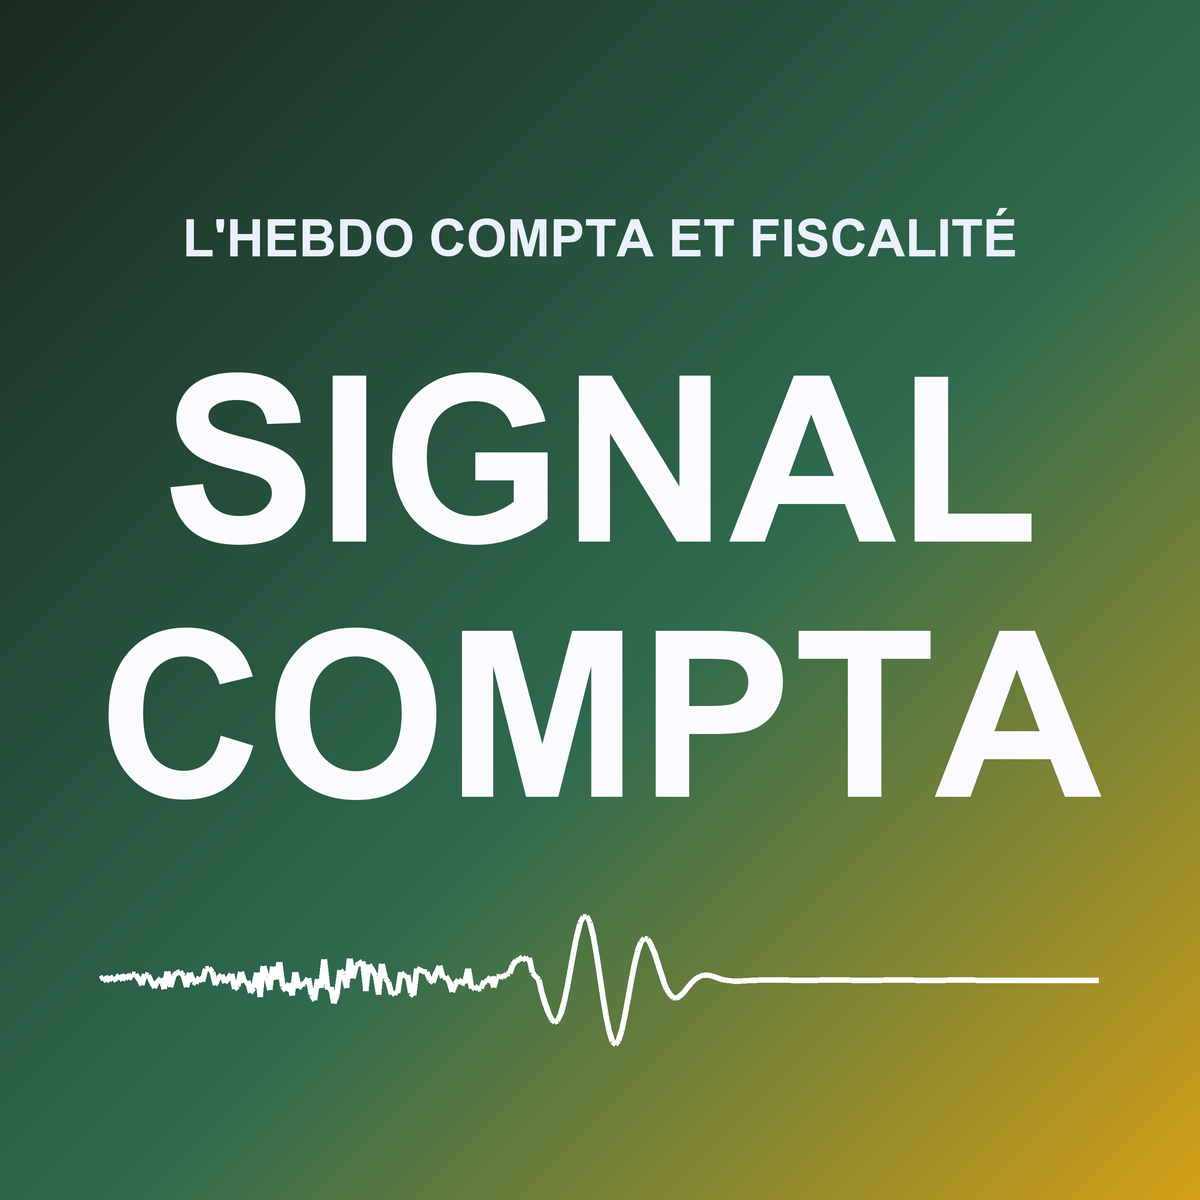
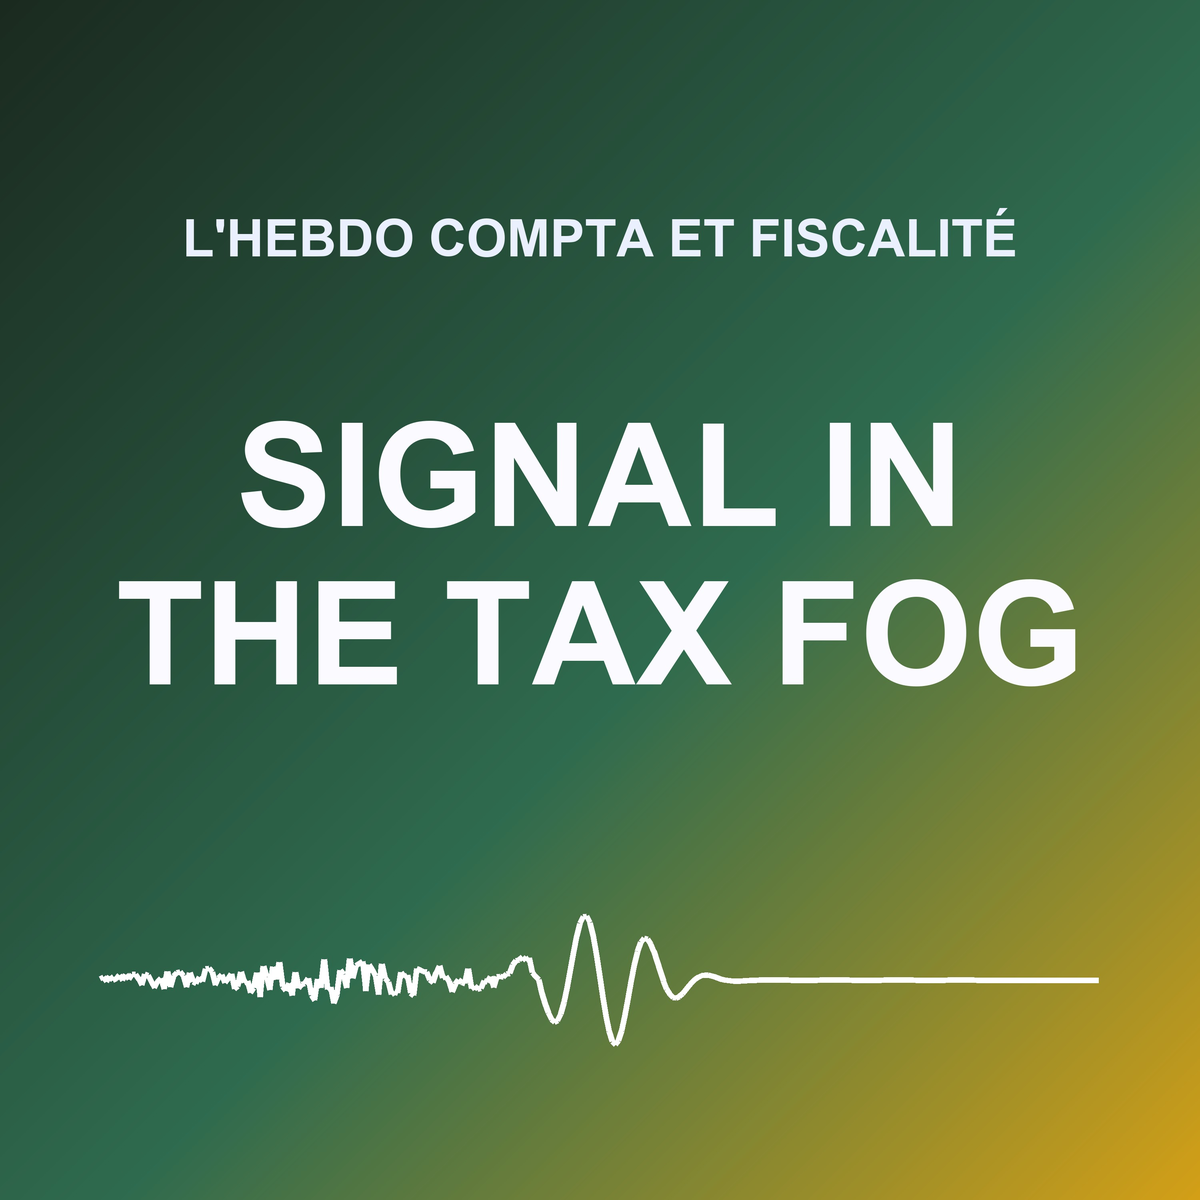
Name the French shows Signal in the HR Fog and Signal in the Tax Fog
Same family as the first show. New covers, site rebuilt; slugs, site folders
and release prefixes unchanged.

Changed region(s): [[0.093, 0.31, 0.93, 0.682]]

diff --git a/docs/index.html b/docs/index.html
@@ -17,7 +17,7 @@
 </div></header>
 <main class="wrap">
 <h1 data-i18n="shows_heading">Pick a show</h1><p class="lede" data-i18n="shows_lede">Every show made by this podcast engine: written by AI from the week&#x27;s or the day&#x27;s sources, read by AI voices.</p>
-<div class="show-list"><section class="story show-card"><a href="episodes.html"><img src="cover.jpg" alt="" width="96" height="96"></a><div><h2><a href="episodes.html">Signal in the AI Fog</a></h2><div class="meta"><span data-i18n="cadence_day">Every weekday</span> · <span data-i18n="language_en">In English</span></div><p class="facts">Every weekday morning, six minutes on enterprise AI in production: models and vendors, European sovereignty, LLMOps and MLOps platforms, evaluation, regulation and retail. Script written and voice generated by AI.</p><p class="latest"><span data-i18n="latest_episode">Latest episode:</span> <a href="episodes/2026-10-22.html">Walmart&#x27;s Agent Gateway, Mistral&#x27;s Compute</a> · <span data-date="2026-10-22" data-date-style="long">Thursday 22 October 2026</span></p><a class="open" href="episodes.html" data-i18n="open_show">Open the catalog →</a></div></section><section class="story show-card"><a href="accounting-news-fr/index.html"><img src="accounting-news-fr/cover.jpg" alt="" width="96" height="96"></a><div><h2><a href="accounting-news-fr/index.html">Signal Compta</a></h2><div class="meta"><span data-i18n="cadence_week">Every week</span> · <span data-i18n="language_fr">In French</span></div><p class="facts">Chaque semaine, dix minutes sur l&#x27;actualité comptable, fiscale et de l&#x27;audit : loi de finances et doctrine fiscale, normes comptables, facturation électronique, reporting de durabilité, commissariat aux comptes, et ce qui vient de l&#x27;Europe. Pour les experts-comptables, les directions financières et les commissaires aux comptes. Script écrit et voix générée par IA.</p><p class="latest"><span data-i18n="no_episodes">No episodes yet</span></p><a class="open" href="accounting-news-fr/index.html" data-i18n="open_show">Open the catalog →</a></div></section><section class="story show-card"><a href="hr-news-fr/index.html"><img src="hr-news-fr/cover.jpg" alt="" width="96" height="96"></a><div><h2><a href="hr-news-fr/index.html">Signal RH</a></h2><div class="meta"><span data-i18n="cadence_week">Every week</span> · <span data-i18n="language_fr">In French</span></div><p class="facts">Chaque semaine, dix minutes sur l&#x27;actualité RH, sociale et paie : droit du travail et jurisprudence, cotisations, conventions collectives, formation, outils RH et IA, et ce qui vient de l&#x27;Europe. Pour les responsables RH et les gestionnaires de paie. Script écrit et voix générée par IA.</p><p class="latest"><span data-i18n="no_episodes">No episodes yet</span></p><a class="open" href="hr-news-fr/index.html" data-i18n="open_show">Open the catalog →</a></div></section></div>
+<div class="show-list"><section class="story show-card"><a href="episodes.html"><img src="cover.jpg" alt="" width="96" height="96"></a><div><h2><a href="episodes.html">Signal in the AI Fog</a></h2><div class="meta"><span data-i18n="cadence_day">Every weekday</span> · <span data-i18n="language_en">In English</span></div><p class="facts">Every weekday morning, six minutes on enterprise AI in production: models and vendors, European sovereignty, LLMOps and MLOps platforms, evaluation, regulation and retail. Script written and voice generated by AI.</p><p class="latest"><span data-i18n="latest_episode">Latest episode:</span> <a href="episodes/2026-10-22.html">Walmart&#x27;s Agent Gateway, Mistral&#x27;s Compute</a> · <span data-date="2026-10-22" data-date-style="long">Thursday 22 October 2026</span></p><a class="open" href="episodes.html" data-i18n="open_show">Open the catalog →</a></div></section><section class="story show-card"><a href="accounting-news-fr/index.html"><img src="accounting-news-fr/cover.jpg" alt="" width="96" height="96"></a><div><h2><a href="accounting-news-fr/index.html">Signal in the Tax Fog</a></h2><div class="meta"><span data-i18n="cadence_week">Every week</span> · <span data-i18n="language_fr">In French</span></div><p class="facts">Chaque semaine, dix minutes sur l&#x27;actualité comptable, fiscale et de l&#x27;audit : loi de finances et doctrine fiscale, normes comptables, facturation électronique, reporting de durabilité, commissariat aux comptes, et ce qui vient de l&#x27;Europe. Pour les experts-comptables, les directions financières et les commissaires aux comptes. Script écrit et voix générée par IA.</p><p class="latest"><span data-i18n="no_episodes">No episodes yet</span></p><a class="open" href="accounting-news-fr/index.html" data-i18n="open_show">Open the catalog →</a></div></section><section class="story show-card"><a href="hr-news-fr/index.html"><img src="hr-news-fr/cover.jpg" alt="" width="96" height="96"></a><div><h2><a href="hr-news-fr/index.html">Signal in the HR Fog</a></h2><div class="meta"><span data-i18n="cadence_week">Every week</span> · <span data-i18n="language_fr">In French</span></div><p class="facts">Chaque semaine, dix minutes sur l&#x27;actualité RH, sociale et paie : droit du travail et jurisprudence, cotisations, conventions collectives, formation, outils RH et IA, et ce qui vient de l&#x27;Europe. Pour les responsables RH et les gestionnaires de paie. Script écrit et voix générée par IA.</p><p class="latest"><span data-i18n="no_episodes">No episodes yet</span></p><a class="open" href="hr-news-fr/index.html" data-i18n="open_show">Open the catalog →</a></div></section></div>
 </main>
 <footer><div class="wrap"><span data-i18n="footer">Scripts are written and voices generated by AI. Sources are listed with every story.</span></div></footer>
 </body>

diff --git a/docs/accounting-news-fr/corrections.html b/docs/accounting-news-fr/corrections.html
@@ -4,11 +4,11 @@
 <head>
 <meta charset="utf-8">
 <meta name="viewport" content="width=device-width, initial-scale=1">
-<title>Rectificatifs · Signal Compta</title>
-<meta name="description" content="Rectificatifs: Signal Compta">
+<title>Rectificatifs · Signal in the Tax Fog</title>
+<meta name="description" content="Rectificatifs: Signal in the Tax Fog">
 <link rel="canonical" href="https://gwendalyviquel.github.io/signal-in-the-ai-fog/accounting-news-fr/corrections.html">
-<meta property="og:title" content="Rectificatifs · Signal Compta">
-<meta property="og:description" content="Rectificatifs: Signal Compta">
+<meta property="og:title" content="Rectificatifs · Signal in the Tax Fog">
+<meta property="og:description" content="Rectificatifs: Signal in the Tax Fog">
 <meta property="og:url" content="https://gwendalyviquel.github.io/signal-in-the-ai-fog/accounting-news-fr/corrections.html">
 <meta property="og:image" content="https://gwendalyviquel.github.io/signal-in-the-ai-fog/accounting-news-fr/cover.jpg">
 <meta name="twitter:card" content="summary">
@@ -21,7 +21,7 @@
 <header class="bar"><div class="wrap">
   <a class="home" href="../index.html" data-i18n-title="nav_home_title" title="Revenir à toutes les émissions">← <span data-i18n="nav_home">Accueil</span></a>
   <img src="cover.jpg" alt="">
-  <a href="index.html">Signal Compta</a>
+  <a href="index.html">Signal in the Tax Fog</a>
   <nav><a href="index.html" data-i18n="nav_episodes">Épisodes</a><a href="agenda.html" data-i18n="nav_agenda">Agenda</a><a href="topics/index.html" data-i18n="nav_topics">Thèmes</a></nav>
   <div class="lang-switch" role="group" aria-label="Language"><button type="button" data-lang="en" aria-pressed="false">EN</button><button type="button" data-lang="fr" aria-pressed="true">FR</button></div>
 </div></header>

diff --git a/docs/accounting-news-fr/topics/index.html b/docs/accounting-news-fr/topics/index.html
@@ -4,11 +4,11 @@
 <head>
 <meta charset="utf-8">
 <meta name="viewport" content="width=device-width, initial-scale=1">
-<title>Thèmes · Signal Compta</title>
-<meta name="description" content="Thèmes: Signal Compta">
+<title>Thèmes · Signal in the Tax Fog</title>
+<meta name="description" content="Thèmes: Signal in the Tax Fog">
 <link rel="canonical" href="https://gwendalyviquel.github.io/signal-in-the-ai-fog/accounting-news-fr/topics/index.html">
-<meta property="og:title" content="Thèmes · Signal Compta">
-<meta property="og:description" content="Thèmes: Signal Compta">
+<meta property="og:title" content="Thèmes · Signal in the Tax Fog">
+<meta property="og:description" content="Thèmes: Signal in the Tax Fog">
 <meta property="og:url" content="https://gwendalyviquel.github.io/signal-in-the-ai-fog/accounting-news-fr/topics/index.html">
 <meta property="og:image" content="https://gwendalyviquel.github.io/signal-in-the-ai-fog/accounting-news-fr/cover.jpg">
 <meta name="twitter:card" content="summary">
@@ -21,7 +21,7 @@
 <header class="bar"><div class="wrap">
   <a class="home" href="../../index.html" data-i18n-title="nav_home_title" title="Revenir à toutes les émissions">← <span data-i18n="nav_home">Accueil</span></a>
   <img src="../cover.jpg" alt="">
-  <a href="../index.html">Signal Compta</a>
+  <a href="../index.html">Signal in the Tax Fog</a>
   <nav><a href="../index.html" data-i18n="nav_episodes">Épisodes</a><a href="../agenda.html" data-i18n="nav_agenda">Agenda</a><a href="../topics/index.html" data-i18n="nav_topics">Thèmes</a></nav>
   <div class="lang-switch" role="group" aria-label="Language"><button type="button" data-lang="en" aria-pressed="false">EN</button><button type="button" data-lang="fr" aria-pressed="true">FR</button></div>
 </div></header>

diff --git a/docs/hr-news-fr/corrections.html b/docs/hr-news-fr/corrections.html
@@ -4,11 +4,11 @@
 <head>
 <meta charset="utf-8">
 <meta name="viewport" content="width=device-width, initial-scale=1">
-<title>Rectificatifs · Signal RH</title>
-<meta name="description" content="Rectificatifs: Signal RH">
+<title>Rectificatifs · Signal in the HR Fog</title>
+<meta name="description" content="Rectificatifs: Signal in the HR Fog">
 <link rel="canonical" href="https://gwendalyviquel.github.io/signal-in-the-ai-fog/hr-news-fr/corrections.html">
-<meta property="og:title" content="Rectificatifs · Signal RH">
-<meta property="og:description" content="Rectificatifs: Signal RH">
+<meta property="og:title" content="Rectificatifs · Signal in the HR Fog">
+<meta property="og:description" content="Rectificatifs: Signal in the HR Fog">
 <meta property="og:url" content="https://gwendalyviquel.github.io/signal-in-the-ai-fog/hr-news-fr/corrections.html">
 <meta property="og:image" content="https://gwendalyviquel.github.io/signal-in-the-ai-fog/hr-news-fr/cover.jpg">
 <meta name="twitter:card" content="summary">
@@ -21,7 +21,7 @@
 <header class="bar"><div class="wrap">
   <a class="home" href="../index.html" data-i18n-title="nav_home_title" title="Revenir à toutes les émissions">← <span data-i18n="nav_home">Accueil</span></a>
   <img src="cover.jpg" alt="">
-  <a href="index.html">Signal RH</a>
+  <a href="index.html">Signal in the HR Fog</a>
   <nav><a href="index.html" data-i18n="nav_episodes">Épisodes</a><a href="agenda.html" data-i18n="nav_agenda">Agenda</a><a href="topics/index.html" data-i18n="nav_topics">Thèmes</a></nav>
   <div class="lang-switch" role="group" aria-label="Language"><button type="button" data-lang="en" aria-pressed="false">EN</button><button type="button" data-lang="fr" aria-pressed="true">FR</button></div>
 </div></header>

diff --git a/docs/accounting-news-fr/agenda.html b/docs/accounting-news-fr/agenda.html
@@ -4,11 +4,11 @@
 <head>
 <meta charset="utf-8">
 <meta name="viewport" content="width=device-width, initial-scale=1">
-<title>Agenda · Signal Compta</title>
-<meta name="description" content="Agenda: Signal Compta">
+<title>Agenda · Signal in the Tax Fog</title>
+<meta name="description" content="Agenda: Signal in the Tax Fog">
 <link rel="canonical" href="https://gwendalyviquel.github.io/signal-in-the-ai-fog/accounting-news-fr/agenda.html">
-<meta property="og:title" content="Agenda · Signal Compta">
-<meta property="og:description" content="Agenda: Signal Compta">
+<meta property="og:title" content="Agenda · Signal in the Tax Fog">
+<meta property="og:description" content="Agenda: Signal in the Tax Fog">
 <meta property="og:url" content="https://gwendalyviquel.github.io/signal-in-the-ai-fog/accounting-news-fr/agenda.html">
 <meta property="og:image" content="https://gwendalyviquel.github.io/signal-in-the-ai-fog/accounting-news-fr/cover.jpg">
 <meta name="twitter:card" content="summary">
@@ -21,7 +21,7 @@
 <header class="bar"><div class="wrap">
   <a class="home" href="../index.html" data-i18n-title="nav_home_title" title="Revenir à toutes les émissions">← <span data-i18n="nav_home">Accueil</span></a>
   <img src="cover.jpg" alt="">
-  <a href="index.html">Signal Compta</a>
+  <a href="index.html">Signal in the Tax Fog</a>
   <nav><a href="index.html" data-i18n="nav_episodes">Épisodes</a><a href="agenda.html" data-i18n="nav_agenda">Agenda</a><a href="topics/index.html" data-i18n="nav_topics">Thèmes</a></nav>
   <div class="lang-switch" role="group" aria-label="Language"><button type="button" data-lang="en" aria-pressed="false">EN</button><button type="button" data-lang="fr" aria-pressed="true">FR</button></div>
 </div></header>

diff --git a/docs/hr-news-fr/topics/index.html b/docs/hr-news-fr/topics/index.html
@@ -4,11 +4,11 @@
 <head>
 <meta charset="utf-8">
 <meta name="viewport" content="width=device-width, initial-scale=1">
-<title>Thèmes · Signal RH</title>
-<meta name="description" content="Thèmes: Signal RH">
+<title>Thèmes · Signal in the HR Fog</title>
+<meta name="description" content="Thèmes: Signal in the HR Fog">
 <link rel="canonical" href="https://gwendalyviquel.github.io/signal-in-the-ai-fog/hr-news-fr/topics/index.html">
-<meta property="og:title" content="Thèmes · Signal RH">
-<meta property="og:description" content="Thèmes: Signal RH">
+<meta property="og:title" content="Thèmes · Signal in the HR Fog">
+<meta property="og:description" content="Thèmes: Signal in the HR Fog">
 <meta property="og:url" content="https://gwendalyviquel.github.io/signal-in-the-ai-fog/hr-news-fr/topics/index.html">
 <meta property="og:image" content="https://gwendalyviquel.github.io/signal-in-the-ai-fog/hr-news-fr/cover.jpg">
 <meta name="twitter:card" content="summary">
@@ -21,7 +21,7 @@
 <header class="bar"><div class="wrap">
   <a class="home" href="../../index.html" data-i18n-title="nav_home_title" title="Revenir à toutes les émissions">← <span data-i18n="nav_home">Accueil</span></a>
   <img src="../cover.jpg" alt="">
-  <a href="../index.html">Signal RH</a>
+  <a href="../index.html">Signal in the HR Fog</a>
   <nav><a href="../index.html" data-i18n="nav_episodes">Épisodes</a><a href="../agenda.html" data-i18n="nav_agenda">Agenda</a><a href="../topics/index.html" data-i18n="nav_topics">Thèmes</a></nav>
   <div class="lang-switch" role="group" aria-label="Language"><button type="button" data-lang="en" aria-pressed="false">EN</button><button type="button" data-lang="fr" aria-pressed="true">FR</button></div>
 </div></header>

diff --git a/docs/hr-news-fr/agenda.html b/docs/hr-news-fr/agenda.html
@@ -4,11 +4,11 @@
 <head>
 <meta charset="utf-8">
 <meta name="viewport" content="width=device-width, initial-scale=1">
-<title>Agenda · Signal RH</title>
-<meta name="description" content="Agenda: Signal RH">
+<title>Agenda · Signal in the HR Fog</title>
+<meta name="description" content="Agenda: Signal in the HR Fog">
 <link rel="canonical" href="https://gwendalyviquel.github.io/signal-in-the-ai-fog/hr-news-fr/agenda.html">
-<meta property="og:title" content="Agenda · Signal RH">
-<meta property="og:description" content="Agenda: Signal RH">
+<meta property="og:title" content="Agenda · Signal in the HR Fog">
+<meta property="og:description" content="Agenda: Signal in the HR Fog">
 <meta property="og:url" content="https://gwendalyviquel.github.io/signal-in-the-ai-fog/hr-news-fr/agenda.html">
 <meta property="og:image" content="https://gwendalyviquel.github.io/signal-in-the-ai-fog/hr-news-fr/cover.jpg">
 <meta name="twitter:card" content="summary">
@@ -21,7 +21,7 @@
 <header class="bar"><div class="wrap">
   <a class="home" href="../index.html" data-i18n-title="nav_home_title" title="Revenir à toutes les émissions">← <span data-i18n="nav_home">Accueil</span></a>
   <img src="cover.jpg" alt="">
-  <a href="index.html">Signal RH</a>
+  <a href="index.html">Signal in the HR Fog</a>
   <nav><a href="index.html" data-i18n="nav_episodes">Épisodes</a><a href="agenda.html" data-i18n="nav_agenda">Agenda</a><a href="topics/index.html" data-i18n="nav_topics">Thèmes</a></nav>
   <div class="lang-switch" role="group" aria-label="Language"><button type="button" data-lang="en" aria-pressed="false">EN</button><button type="button" data-lang="fr" aria-pressed="true">FR</button></div>
 </div></header>

diff --git a/docs/accounting-news-fr/index.html b/docs/accounting-news-fr/index.html
@@ -5,10 +5,10 @@
 <head>
 <meta charset="utf-8">
 <meta name="viewport" content="width=device-width, initial-scale=1">
-<title>Signal Compta</title>
+<title>Signal in the Tax Fog</title>
 <meta name="description" content="Chaque semaine, dix minutes sur l&#x27;actualité comptable, fiscale et de l&#x27;audit : loi de finances et doctrine fiscale, normes comptables, facturation électronique, reporting de durabilité, commissariat aux comptes, et ce qui vient de l&#x27;Europe. Pour les experts-comptables, les directions financières et les commissaires aux comptes. Script écrit et voix générée par IA.">
 <link rel="icon" href="cover.jpg">
-<link rel="alternate" type="application/rss+xml" title="Signal Compta" href="feed.xml">
+<link rel="alternate" type="application/rss+xml" title="Signal in the Tax Fog" href="feed.xml">
 <style>
   :root {
     --bg: #f5f6fb;

diff --git a/docs/hr-news-fr/index.html b/docs/hr-news-fr/index.html
@@ -5,10 +5,10 @@
 <head>
 <meta charset="utf-8">
 <meta name="viewport" content="width=device-width, initial-scale=1">
-<title>Signal RH</title>
+<title>Signal in the HR Fog</title>
 <meta name="description" content="Chaque semaine, dix minutes sur l&#x27;actualité RH, sociale et paie : droit du travail et jurisprudence, cotisations, conventions collectives, formation, outils RH et IA, et ce qui vient de l&#x27;Europe. Pour les responsables RH et les gestionnaires de paie. Script écrit et voix générée par IA.">
 <link rel="icon" href="cover.jpg">
-<link rel="alternate" type="application/rss+xml" title="Signal RH" href="feed.xml">
+<link rel="alternate" type="application/rss+xml" title="Signal in the HR Fog" href="feed.xml">
 <style>
   :root {
     --bg: #f5f6fb;

diff --git a/tests/test_overview.py b/tests/test_overview.py
@@ -16,7 +16,7 @@ def run(day, mode="publish", outcome="ok", usd=1.0, chars=5000):
 
 def make_repo(tmp_path, ledgers=None, stats=None, episodes=None):
     shows = {"signal-in-the-ai-fog": {"title": "Signal", "site_path": "", "cadence": "weekdays"},
-             "hr-news-fr": {"title": "Signal RH", "site_path": "hr-news-fr", "cadence": "weekly:monday"}}
+             "hr-news-fr": {"title": "Signal in the HR Fog", "site_path": "hr-news-fr", "cadence": "weekly:monday"}}
     for slug, p in shows.items():
         home = tmp_path / "shows" / slug
         (home / "data").mkdir(parents=True)
@@ -39,7 +39,7 @@ def test_costs_report_has_money_per_show_the_shared_credits_and_no_usage_table(t
         stats={"signal-in-the-ai-fog": {"2026-10-22": {"2026-10-20": 10}}})
     text = overview.costs_report(repo, TODAY)
     assert "| [Signal](signal-in-the-ai-fog/COSTS.md) | 2 | 1 | $1.50 | 5,000 |" in text
-    assert "| [Signal RH](hr-news-fr/COSTS.md) | 1 | 1 | $2.00 | 8,000 |" in text
+    assert "| [Signal in the HR Fog](hr-news-fr/COSTS.md) | 1 | 1 | $2.00 | 8,000 |" in text
     assert "**All shows** | **3** | **2** | **$3.50** | **13,000**" in text
     # Projections: 22 weekdays in October 2026 for the daily show, 4 Mondays for the weekly one.
     assert "$22.00 | 110,000 |" in text and "$8.00 | 32,000 |" in text
@@ -60,10 +60,10 @@ def test_usage_report_has_listening_per_show_and_no_money(tmp_path):
     assert signal["per_day"][dt.date(2026, 10, 20)] == 4 and signal["per_day"][dt.date(2026, 10, 22)] == 4
     assert signal["per_day"][dt.date(2026, 10, 10)] == 0  # nothing before the first snapshot
     text = overview.usage_report(rows)
-    assert "| Signal | 2 | 12 | +8 | 6.0 | 2026-10-22 |" in text and "| Signal RH | 0 | 0 | +0 | — | none yet |" in text
+    assert "| Signal | 2 | 12 | +8 | 6.0 | 2026-10-22 |" in text and "| Signal in the HR Fog | 0 | 0 | +0 | — | none yet |" in text
     assert "$" not in text and "Spotify for Creators" in text
     svg = overview.usage_svg(rows, "light")
-    assert "<title>Usage dashboard</title>" in svg and "Signal RH" in svg and "$" not in svg
+    assert "<title>Usage dashboard</title>" in svg and "Signal in the HR Fog" in svg and "$" not in svg
 
 
 def test_reports_are_written_in_the_shows_folder(tmp_path):
@@ -81,7 +81,7 @@ def test_every_run_rebuilds_the_report_of_every_show(tmp_path):
                      "web_search_usd_per_1000": 10}, "generation": {"cadence": "weekly:monday", "model": "m"}}
     costs.record(cfg, "dry run", "ok", elevenlabs_characters=0, ledger=show / "data" / "costs.json",
                  report=show / "COSTS.md", charts=show, now=dt.datetime(2026, 10, 22, 8, tzinfo=dt.timezone.utc))
-    assert "Signal RH" in (repo / "shows" / "COSTS.md").read_text()
+    assert "Signal in the HR Fog" in (repo / "shows" / "COSTS.md").read_text()
 
 
 def test_a_weekly_show_projects_over_its_episode_days():

diff --git a/tests/test_pages.py b/tests/test_pages.py
@@ -190,7 +190,7 @@ def test_labels_added_after_publication_say_so(build):
 def french_cfg(cfg):
     import copy
     fr = copy.deepcopy(cfg)
-    fr["podcast"].update(title="Signal RH", language="fr", site_path="hr-news-fr", description="Chaque semaine.")
+    fr["podcast"].update(title="Signal in the HR Fog", language="fr", site_path="hr-news-fr", description="Chaque semaine.")
     fr["generation"]["cadence"] = "weekly:monday"
     return fr
 
@@ -204,20 +204,20 @@ def test_a_french_show_gets_french_pages_that_reach_the_shared_files(tmp_path, c
     docs.mkdir(parents=True)
     (tmp_path / "data" / "scripts" / "2026-10-26.json").write_text(json.dumps(make_episode(
         follow_up={"text": "Suivi.", "source": {"title": "S", "url": "https://s", "primary": True}})))
-    (docs / "catalog.json").write_text(json.dumps({"podcast": dict(PODCAST, title="Signal RH"),
+    (docs / "catalog.json").write_text(json.dumps({"podcast": dict(PODCAST, title="Signal in the HR Fog"),
                                                    "episodes": [item("2026-10-26")]}))
     site.write_site(fr, docs / "catalog.json", tmp_path / "data", docs, BASE + "hr-news-fr/")
     page = (docs / "episodes" / "2026-10-26.html").read_text()
     assert '<html lang="fr">' in page and 'href="../../pages.css"' in page and 'src="../../i18n.js"' in page
-    assert 'href="../../index.html"' in page and ">Signal RH</a>" in page  # the button back to the home page
-    assert 'href="../index.html">Signal RH</a>' in page and 'href="../agenda.html"' in page
+    assert 'href="../../index.html"' in page and ">Signal in the HR Fog</a>" in page  # the button back to the home page
+    assert 'href="../index.html">Signal in the HR Fog</a>' in page and 'href="../agenda.html"' in page
     for text in ('data-i18n="stories">Sujets</h2>', 'data-i18n="story.week">Sujet de la semaine</span>',
                  'data-i18n="number.week">Chiffre de la semaine</h2>', ">lundi 26 octobre 2026</span>",
                  'data-i18n="label_confirmed"', ">Confirmé</span>", 'data-i18n="read">L&#x27;analyse</span>'):
         assert text in page, text
     catalog = (docs / "index.html").read_text()
     assert '<html lang="fr">' in catalog and '<script src="../i18n.js"></script>' in catalog
-    assert "<title>Signal RH</title>" in catalog and "{{" not in catalog
+    assert "<title>Signal in the HR Fog</title>" in catalog and "{{" not in catalog
 
 
 def test_the_interface_texts_of_every_language_reach_the_browser():

diff --git a/tests/test_offline_rehearsal.py b/tests/test_offline_rehearsal.py
@@ -117,7 +117,7 @@ def test_a_weekly_french_show_publishes_on_its_day_in_french(french):
     assert [c["title"] for c in ep["chapters"]][:2] == ["Ouverture", "Sujet de la semaine : Le bulletin de paie "
                                                                        "simplifié arrive en janvier"]
     assert french["script"].count("## Script") == 1 and "C'est tout pour cette semaine." in french["script"]
-    assert "Bonjour, ici Signal RH" in french["script"] or "Bonjour, ici " in french["script"]
+    assert "Bonjour, ici Signal in the HR Fog" in french["script"] or "Bonjour, ici " in french["script"]
     item = french["feed"].getroot().find("channel/item")
     assert item.find("guid").text.endswith("#hr-news-fr-2030-01-14")
     assert french["feed"].getroot().find("channel/language").text == "fr"
